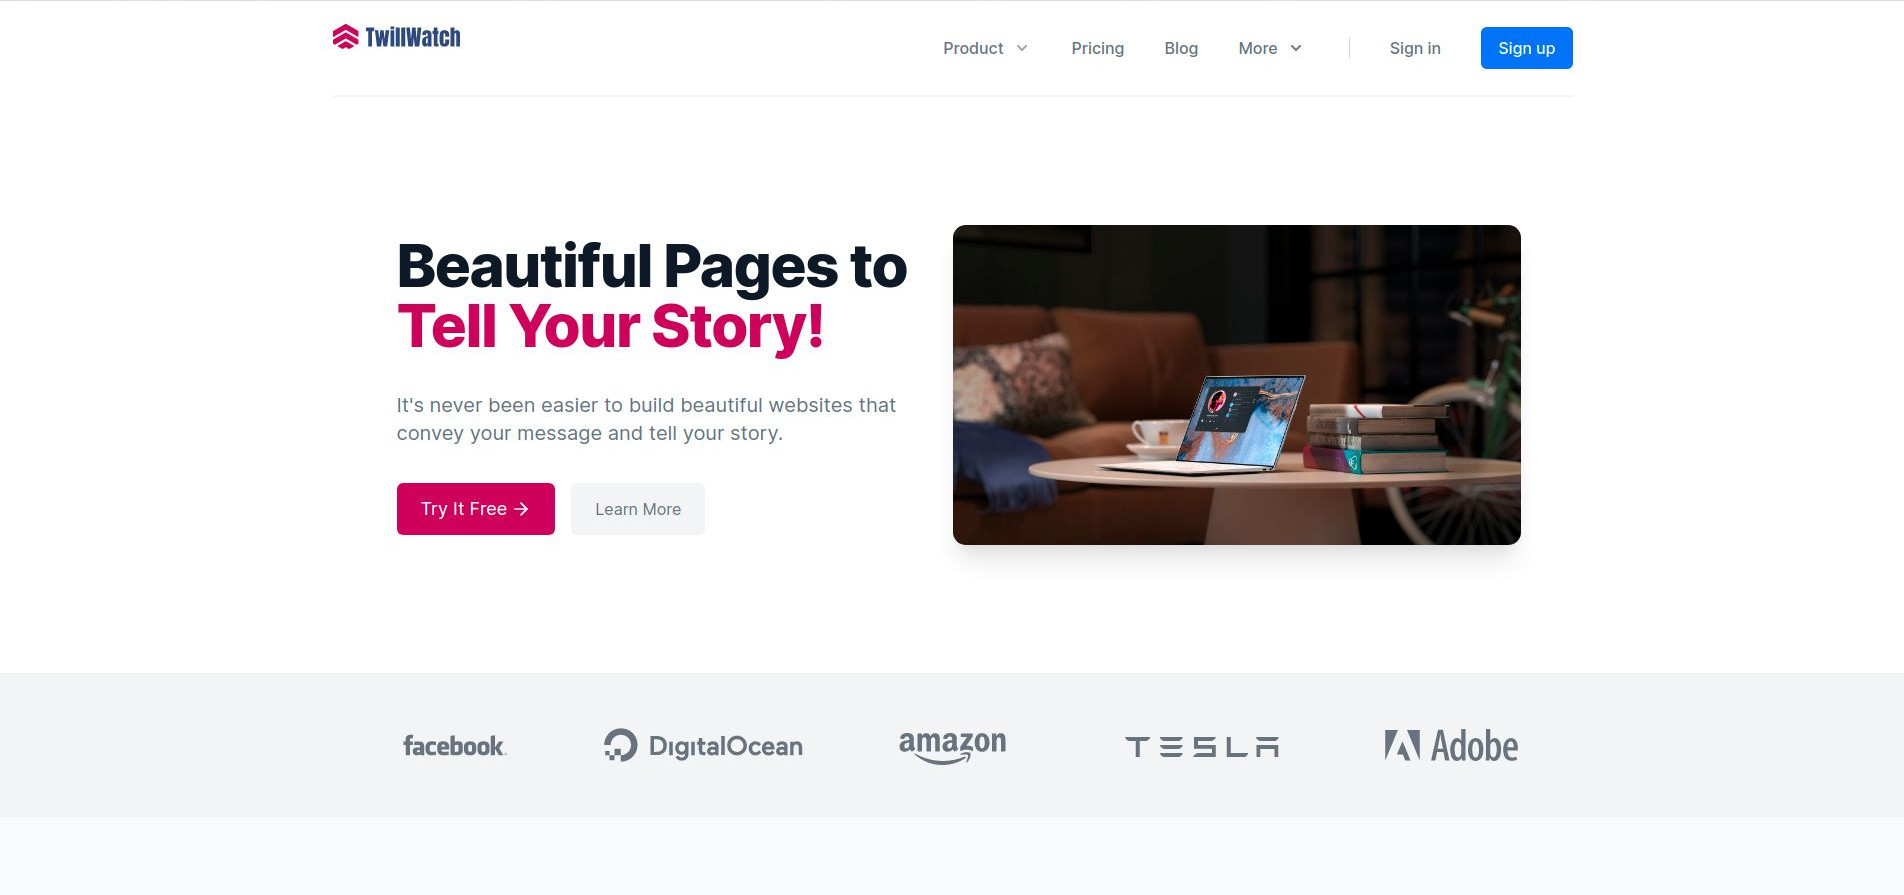
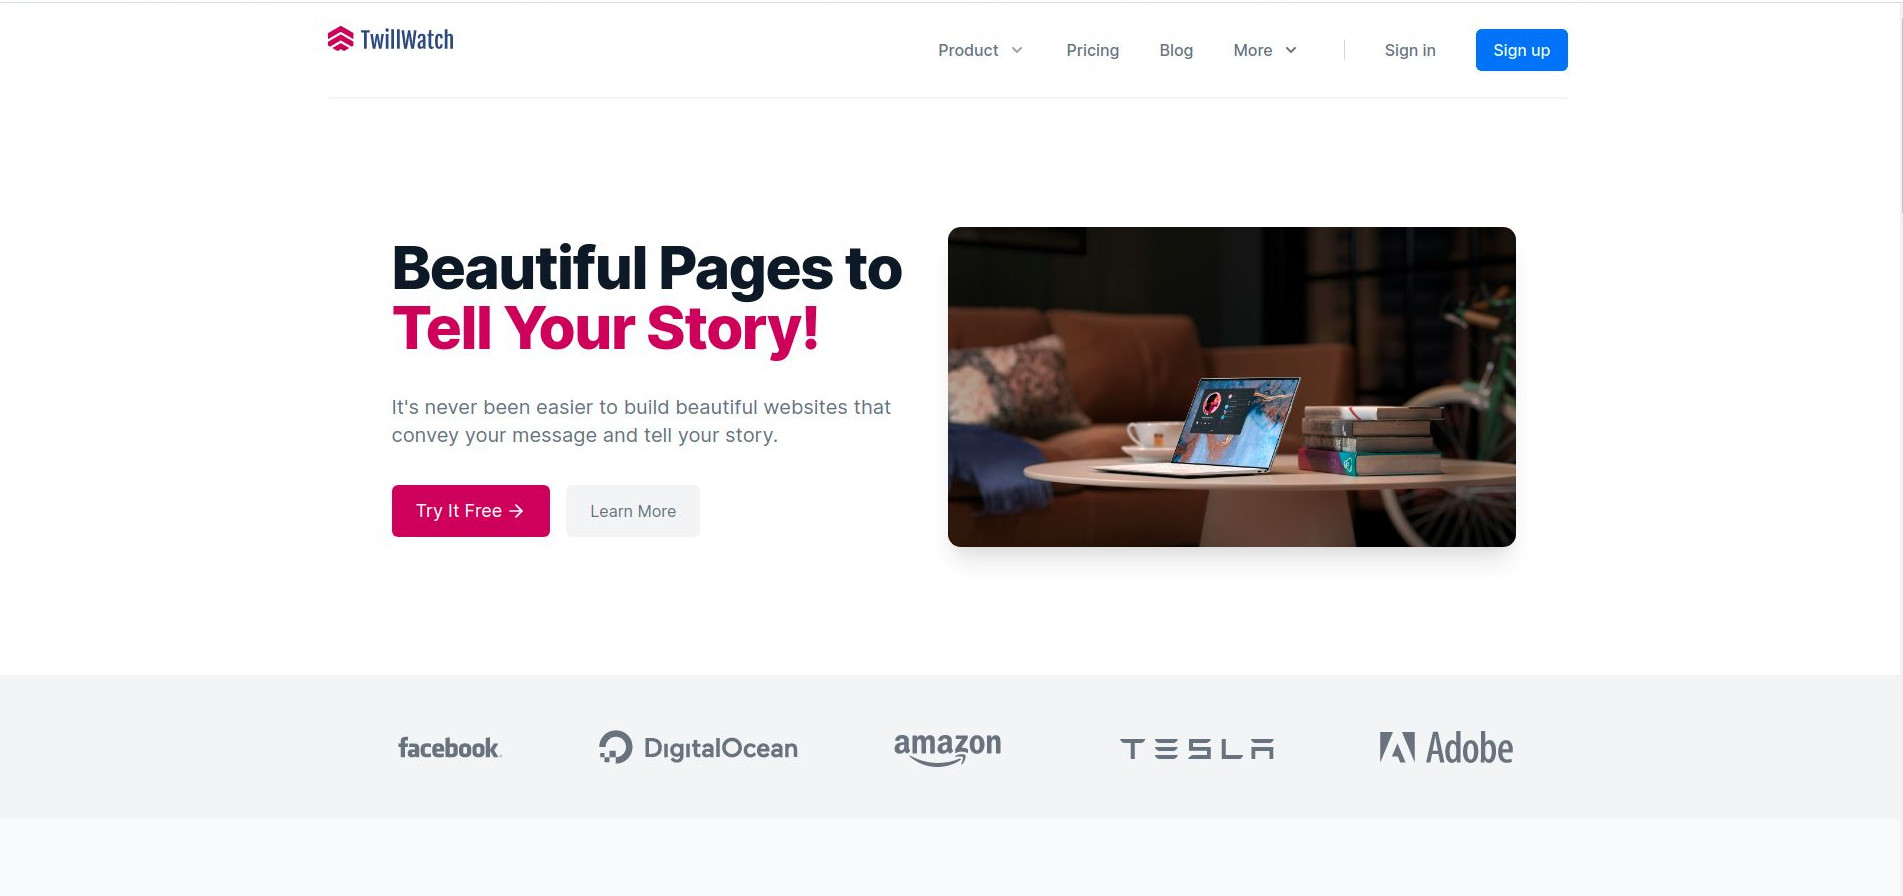
Update

diff --git a/public/themes/tailwind/js/app.js b/public/themes/tailwind/js/app.js
@@ -4276,8 +4276,8 @@ process.umask = function() { return 0; };
 /*! no static exports found */
 /***/ (function(module, exports, __webpack_require__) {
 
-__webpack_require__(/*! /home/anton/Projects/watchdog/resources/views/themes/tailwind/assets/js/app.js */"./assets/js/app.js");
-module.exports = __webpack_require__(/*! /home/anton/Projects/watchdog/resources/views/themes/tailwind/assets/sass/app.scss */"./assets/sass/app.scss");
+__webpack_require__(/*! /home/anton/Projects/Archived/watchdog/resources/views/themes/tailwind/assets/js/app.js */"./assets/js/app.js");
+module.exports = __webpack_require__(/*! /home/anton/Projects/Archived/watchdog/resources/views/themes/tailwind/assets/sass/app.scss */"./assets/sass/app.scss");
 
 
 /***/ })

diff --git a/resources/views/themes/tailwind/partials/footer.blade.php b/resources/views/themes/tailwind/partials/footer.blade.php
@@ -7,7 +7,7 @@
         
             
                     <div class="relative flex items-center text-gray-500 leading-tighter">
-                       <svg class="w-auto h-14" xmlns="http://www.w3.org/2000/svg" viewBox="0 0 415 61" ><g fill="#bf1e5c" color="#bf1e5c" transform="translate(0 4) scale(0.6363637)"><svg width="44.0" height="44.0" x="0.0" y="0.0" viewBox="0 0 44 44"><path fill="currentColor" fill-rule="evenodd" d="M21.973 29.756l14.787 8.535-9.168 5.28-5.605-3.224-5.563 3.225-9.182-5.281 14.73-8.535zm0-15.005L44 27.454v6.492l-3.52 2.07-18.506-10.675L3.525 36.016l-3.52-2.042v-6.52L21.973 14.75zM21.97 0l22.026 12.689v10.576L21.984 10.591 0 23.294V12.703L21.97 0z"></path></svg></g><path fill="#384684" fill-rule="nonzero" d="M6.58 21.67L2.45 21.67L2.45 5.02L0 5.02L0 1.06L9.02 1.06L9.02 5.02L6.58 5.02L6.58 21.67ZM16.61 21.67L11.95 21.67L9.82 4.10L13.42 4.10L14.59 13.54L15.60 4.10L19.27 4.10L20.47 13.54L21.46 4.10L25.42 4.10L23.16 21.67L18.96 21.67L17.71 11.69L16.61 21.67ZM30.98 2.93L26.78 2.93L26.78 0L30.98 0L30.98 2.93ZM30.98 21.67L26.78 21.67L26.78 4.10L30.98 4.10L30.98 21.67ZM36.91 21.67L32.64 21.67L32.64 0.94L36.91 0.94L36.91 21.67ZM42.86 21.67L38.59 21.67L38.59 0.94L42.86 0.94L42.86 21.67ZM51.26 21.67L46.22 21.67L44.02 1.06L48.05 1.06L49.20 14.06L50.35 1.06L54.19 1.06L55.30 14.06L56.40 1.06L60.48 1.06L58.22 21.67L53.28 21.67L52.25 11.74L51.26 21.67ZM64.82 21.86Q62.78 21.86 62.03 20.51Q61.27 19.15 61.27 16.63L61.27 16.63Q61.27 14.57 61.81 13.46Q62.35 12.36 63.31 11.84Q64.27 11.33 66.24 10.70L66.24 10.70L67.39 10.32L67.39 10.27L67.39 8.52Q67.39 7.82 67.12 7.45Q66.84 7.08 66.46 7.08L66.46 7.08Q66.12 7.08 65.87 7.39Q65.62 7.70 65.62 8.23L65.62 8.23L65.62 9.29L61.54 9.29L61.54 8.71Q61.54 6.12 62.75 5.02Q63.96 3.91 66.70 3.91L66.70 3.91Q68.88 3.91 70.25 5.05Q71.62 6.19 71.62 8.28L71.62 8.28L71.62 21.67L67.44 21.67L67.44 19.58Q67.13 20.66 66.44 21.26Q65.76 21.86 64.82 21.86L64.82 21.86ZM66.48 18.60Q66.96 18.60 67.16 18.20Q67.37 17.81 67.37 17.23L67.37 17.23L67.37 12.34Q66.43 12.70 65.99 13.25Q65.54 13.80 65.54 14.78L65.54 14.78L65.54 17.04Q65.54 18.60 66.48 18.60L66.48 18.60ZM76.85 21.86Q75.19 21.86 74.57 21.17Q73.94 20.47 73.94 18.94L73.94 18.94L73.94 7.97L72.77 7.97L72.77 4.78L73.94 4.78L73.94 1.06L78.02 1.06L78.02 4.78L79.22 4.78L79.22 7.97L78.02 7.97L78.02 17.83Q78.02 18.29 78.10 18.50Q78.17 18.72 78.48 18.72L78.48 18.72Q78.72 18.72 78.94 18.70Q79.15 18.67 79.22 18.67L79.22 18.67L79.22 21.55Q78.86 21.65 78.18 21.76Q77.50 21.86 76.85 21.86L76.85 21.86ZM85.82 21.86Q82.94 21.86 81.67 20.40Q80.40 18.94 80.40 15.91L80.40 15.91L80.40 10.49Q80.40 8.21 80.89 6.78Q81.38 5.35 82.55 4.63Q83.71 3.91 85.78 3.91L85.78 3.91Q88.03 3.91 89.45 5.09Q90.86 6.26 90.86 8.38L90.86 8.38L90.86 11.06L86.59 11.06L86.59 8.59Q86.59 7.90 86.40 7.52Q86.21 7.15 85.66 7.15L85.66 7.15Q84.62 7.15 84.62 8.62L84.62 8.62L84.62 17.14Q84.62 17.74 84.88 18.16Q85.13 18.58 85.63 18.58L85.63 18.58Q86.14 18.58 86.39 18.17Q86.64 17.76 86.62 17.11L86.62 17.11L86.59 14.16L90.86 14.16L90.86 17.23Q90.86 19.39 89.46 20.63Q88.06 21.86 85.82 21.86L85.82 21.86ZM92.33 21.67L92.33 0.94L96.65 0.94L96.65 5.83Q97.32 3.91 99.22 3.91L99.22 3.91Q100.99 3.91 101.90 5.04Q102.82 6.17 102.82 8.14L102.82 8.14L102.82 21.67L98.62 21.67L98.62 8.40Q98.62 7.82 98.35 7.46Q98.09 7.10 97.58 7.10L97.58 7.10Q97.15 7.10 96.90 7.48Q96.65 7.85 96.65 8.38L96.65 8.38L96.65 21.67L92.33 21.67Z" transform="translate(36, 7.164)"></path></svg>
+                       <svg class="w-auto h-14" xmlns="http://www.w3.org/2000/svg" viewBox="0 0 415 61" ><g fill="#bf1e5c" color="#bf1e5c" transform="translate(0 4) scale(0.6363637)"><svg width="44.0" height="44.0" x="0.0" y="0.0" viewBox="0 0 44 44"><path fill="currentColor" fill-rule="evenodd" d="M21.973 29.756l14.787 8.535-9.168 5.28-5.605-3.224-5.563 3.225-9.182-5.281 14.73-8.535zm0-15.005L44 27.454v6.492l-3.52 2.07-18.506-10.675L3.525 36.016l-3.52-2.042v-6.52L21.973 14.75zM21.97 0l22.026 12.689v10.576L21.984 10.591 0 23.294V12.703L21.97 0z"></path></svg></g><path fill="#384684" fill-rule="nonzero" d="M3.22 22.25L3.22 4.63L0 4.63L0 2.24L9.47 2.24L9.47 4.63L6.26 4.63L6.26 22.25L3.22 22.25ZM12.88 22.25L10.22 6.12L13.04 6.12L14.20 14.86L14.48 18.13L14.58 18.13L14.93 14.86L16.48 6.12L18.97 6.12L20.57 14.86L21 18.13L21.09 18.13L21.29 14.86L22.31 6.12L25.08 6.12L22.46 22.25L19.73 22.25L18.06 13.28L17.68 10.80L17.59 10.80L17.25 13.28L15.73 22.25L12.88 22.25ZM28.59 3.81L28.59 3.81Q27.77 3.81 27.30 3.32Q26.82 2.82 26.82 1.88L26.82 1.88Q26.82 1.35 26.95 0.99Q27.07 0.63 27.30 0.42Q27.53 0.20 27.86 0.10Q28.18 0 28.61 0L28.61 0Q29.48 0 29.94 0.45Q30.40 0.89 30.40 1.88L30.40 1.88Q30.40 2.79 29.94 3.30Q29.47 3.81 28.59 3.81ZM27.06 22.25L27.06 6.12L30.02 6.12L30.02 22.25L27.06 22.25ZM33.16 22.25L33.16 0.94L36.13 0.94L36.13 22.25L33.16 22.25ZM39.27 22.25L39.27 0.94L42.23 0.94L42.23 22.25L39.27 22.25ZM47.12 22.25L44.24 2.24L47.14 2.24L48.49 14.33L48.64 17.16L48.94 17.16L49.22 13.98L51.38 2.24L53.80 2.24L55.86 13.98L56.10 17.16L56.40 17.16L56.54 14.33L57.77 2.24L60.69 2.24L57.89 22.25L54.81 22.25L53.16 12.63L52.64 8.45L52.41 8.45L51.90 12.63L50.17 22.25L47.12 22.25ZM64.89 22.43L64.89 22.43Q64.14 22.43 63.56 22.13Q62.98 21.83 62.58 21.32Q62.18 20.80 61.97 20.09Q61.77 19.38 61.77 18.55L61.77 18.55Q61.77 17.55 62.02 16.78Q62.26 16.01 62.74 15.39Q63.21 14.77 63.91 14.26Q64.62 13.75 65.54 13.29L65.54 13.29Q65.99 13.07 66.54 12.84Q67.10 12.61 67.54 12.45L67.54 12.45L67.54 10.31Q67.54 9.84 67.50 9.44Q67.46 9.04 67.33 8.74Q67.20 8.44 66.93 8.27Q66.66 8.10 66.19 8.10L66.19 8.10Q65.87 8.10 65.57 8.21Q65.27 8.33 65.04 8.61Q64.82 8.89 64.68 9.36Q64.55 9.83 64.55 10.52L64.55 10.52L64.55 11.23L62.29 11.23Q62.18 10.77 62.13 10.39Q62.07 10.01 62.07 9.63L62.07 9.63Q62.07 8.73 62.38 8.04Q62.70 7.35 63.25 6.88Q63.81 6.41 64.58 6.17Q65.36 5.93 66.28 5.93L66.28 5.93Q67.49 5.93 68.29 6.19Q69.08 6.46 69.56 6.98Q70.03 7.51 70.22 8.31Q70.42 9.11 70.42 10.17L70.42 10.17L70.42 22.25L68.21 22.25L68.00 20.87Q67.52 21.56 66.72 22.00Q65.92 22.43 64.89 22.43ZM66.20 20.14L66.20 20.14Q66.57 20.14 66.93 19.95Q67.29 19.76 67.54 19.48L67.54 19.48L67.54 14.43Q67.30 14.52 67.01 14.65Q66.71 14.78 66.38 14.99L66.38 14.99Q66.06 15.19 65.75 15.47Q65.45 15.75 65.21 16.14Q64.97 16.52 64.82 17.01Q64.68 17.50 64.68 18.09L64.68 18.09Q64.68 19.02 65.04 19.58Q65.40 20.14 66.20 20.14ZM73.83 18.23L73.83 8.23L72.57 8.23L72.57 6.12L74.09 6.12L74.68 1.93L76.79 1.93L76.79 6.12L79.37 6.12L79.37 8.23L76.79 8.23L76.79 18.49Q76.79 19.02 76.89 19.34Q76.99 19.66 77.17 19.85Q77.34 20.03 77.58 20.09Q77.81 20.14 78.07 20.14L78.07 20.14Q78.50 20.14 78.84 20.04Q79.17 19.93 79.48 19.75L79.48 19.75L79.48 21.39Q79.22 21.70 78.92 21.90Q78.62 22.10 78.30 22.22Q77.99 22.35 77.66 22.39Q77.33 22.44 77.02 22.44L77.02 22.44Q76.39 22.44 75.82 22.28Q75.25 22.11 74.80 21.65Q74.36 21.19 74.09 20.37Q73.83 19.55 73.83 18.23L73.83 18.23ZM85.16 22.43L85.16 22.43Q83.12 22.43 82.05 20.75Q80.98 19.08 80.98 15.64L80.98 15.64L80.98 12.60Q80.98 11.06 81.20 9.97Q81.42 8.87 81.79 8.13Q82.16 7.38 82.63 6.95Q83.11 6.52 83.61 6.29Q84.12 6.06 84.61 5.99Q85.10 5.93 85.51 5.93L85.51 5.93Q86.33 5.93 87.01 6.15Q87.69 6.36 88.18 6.80Q88.68 7.24 88.95 7.91Q89.21 8.58 89.21 9.48L89.21 9.48Q89.21 10.04 89.16 10.45Q89.11 10.85 89.02 11.23L89.02 11.23L86.65 11.23L86.65 10.69Q86.65 9.47 86.36 8.78Q86.07 8.10 85.42 8.10L85.42 8.10Q85.05 8.10 84.79 8.27Q84.52 8.44 84.33 8.85Q84.15 9.26 84.06 9.95Q83.98 10.64 83.98 11.68L83.98 11.68L83.98 16.27Q83.98 17.32 84.05 18.06Q84.12 18.80 84.29 19.26Q84.47 19.72 84.76 19.93Q85.05 20.14 85.49 20.14L85.49 20.14Q85.71 20.14 85.92 20.03Q86.13 19.92 86.29 19.66Q86.45 19.41 86.55 18.98Q86.65 18.55 86.65 17.92L86.65 17.92L86.65 17.41L89.20 17.41L89.20 18.04Q89.20 20.33 88.19 21.38Q87.18 22.43 85.16 22.43ZM91.61 22.25L91.61 0.94L94.57 0.94L94.57 4.73L94.42 7.50Q94.75 7.04 95.13 6.74Q95.51 6.45 95.91 6.26Q96.32 6.08 96.73 6.01Q97.15 5.93 97.56 5.93L97.56 5.93Q98.98 5.93 99.74 6.92Q100.51 7.91 100.51 9.89L100.51 9.89L100.51 22.25L97.55 22.25L97.55 10.00Q97.55 8.93 97.22 8.51Q96.89 8.10 96.26 8.10L96.26 8.10Q95.81 8.10 95.36 8.40Q94.91 8.70 94.57 9.22L94.57 9.22L94.57 22.25L91.61 22.25Z" transform="translate(36, 6.874)"></path></svg>
                         <span class="ml-4 text-3xl font-thin tracking-wide">wave</span>
                     </div>
             

diff --git a/resources/views/themes/tailwind/partials/header.blade.php b/resources/views/themes/tailwind/partials/header.blade.php
@@ -7,7 +7,7 @@
                     @if(Voyager::image(theme('logo')))
                         <img class="h-9" src="{{ Voyager::image(theme('logo')) }}" alt="Company name">
                     @else
-                        <svg class="w-auto h-14" xmlns="http://www.w3.org/2000/svg" viewBox="0 0 415 61" ><g fill="#bf1e5c" color="#bf1e5c" transform="translate(0 4) scale(0.6363637)"><svg width="44.0" height="44.0" x="0.0" y="0.0" viewBox="0 0 44 44"><path fill="currentColor" fill-rule="evenodd" d="M21.973 29.756l14.787 8.535-9.168 5.28-5.605-3.224-5.563 3.225-9.182-5.281 14.73-8.535zm0-15.005L44 27.454v6.492l-3.52 2.07-18.506-10.675L3.525 36.016l-3.52-2.042v-6.52L21.973 14.75zM21.97 0l22.026 12.689v10.576L21.984 10.591 0 23.294V12.703L21.97 0z"></path></svg></g><path fill="#384684" fill-rule="nonzero" d="M6.58 21.67L2.45 21.67L2.45 5.02L0 5.02L0 1.06L9.02 1.06L9.02 5.02L6.58 5.02L6.58 21.67ZM16.61 21.67L11.95 21.67L9.82 4.10L13.42 4.10L14.59 13.54L15.60 4.10L19.27 4.10L20.47 13.54L21.46 4.10L25.42 4.10L23.16 21.67L18.96 21.67L17.71 11.69L16.61 21.67ZM30.98 2.93L26.78 2.93L26.78 0L30.98 0L30.98 2.93ZM30.98 21.67L26.78 21.67L26.78 4.10L30.98 4.10L30.98 21.67ZM36.91 21.67L32.64 21.67L32.64 0.94L36.91 0.94L36.91 21.67ZM42.86 21.67L38.59 21.67L38.59 0.94L42.86 0.94L42.86 21.67ZM51.26 21.67L46.22 21.67L44.02 1.06L48.05 1.06L49.20 14.06L50.35 1.06L54.19 1.06L55.30 14.06L56.40 1.06L60.48 1.06L58.22 21.67L53.28 21.67L52.25 11.74L51.26 21.67ZM64.82 21.86Q62.78 21.86 62.03 20.51Q61.27 19.15 61.27 16.63L61.27 16.63Q61.27 14.57 61.81 13.46Q62.35 12.36 63.31 11.84Q64.27 11.33 66.24 10.70L66.24 10.70L67.39 10.32L67.39 10.27L67.39 8.52Q67.39 7.82 67.12 7.45Q66.84 7.08 66.46 7.08L66.46 7.08Q66.12 7.08 65.87 7.39Q65.62 7.70 65.62 8.23L65.62 8.23L65.62 9.29L61.54 9.29L61.54 8.71Q61.54 6.12 62.75 5.02Q63.96 3.91 66.70 3.91L66.70 3.91Q68.88 3.91 70.25 5.05Q71.62 6.19 71.62 8.28L71.62 8.28L71.62 21.67L67.44 21.67L67.44 19.58Q67.13 20.66 66.44 21.26Q65.76 21.86 64.82 21.86L64.82 21.86ZM66.48 18.60Q66.96 18.60 67.16 18.20Q67.37 17.81 67.37 17.23L67.37 17.23L67.37 12.34Q66.43 12.70 65.99 13.25Q65.54 13.80 65.54 14.78L65.54 14.78L65.54 17.04Q65.54 18.60 66.48 18.60L66.48 18.60ZM76.85 21.86Q75.19 21.86 74.57 21.17Q73.94 20.47 73.94 18.94L73.94 18.94L73.94 7.97L72.77 7.97L72.77 4.78L73.94 4.78L73.94 1.06L78.02 1.06L78.02 4.78L79.22 4.78L79.22 7.97L78.02 7.97L78.02 17.83Q78.02 18.29 78.10 18.50Q78.17 18.72 78.48 18.72L78.48 18.72Q78.72 18.72 78.94 18.70Q79.15 18.67 79.22 18.67L79.22 18.67L79.22 21.55Q78.86 21.65 78.18 21.76Q77.50 21.86 76.85 21.86L76.85 21.86ZM85.82 21.86Q82.94 21.86 81.67 20.40Q80.40 18.94 80.40 15.91L80.40 15.91L80.40 10.49Q80.40 8.21 80.89 6.78Q81.38 5.35 82.55 4.63Q83.71 3.91 85.78 3.91L85.78 3.91Q88.03 3.91 89.45 5.09Q90.86 6.26 90.86 8.38L90.86 8.38L90.86 11.06L86.59 11.06L86.59 8.59Q86.59 7.90 86.40 7.52Q86.21 7.15 85.66 7.15L85.66 7.15Q84.62 7.15 84.62 8.62L84.62 8.62L84.62 17.14Q84.62 17.74 84.88 18.16Q85.13 18.58 85.63 18.58L85.63 18.58Q86.14 18.58 86.39 18.17Q86.64 17.76 86.62 17.11L86.62 17.11L86.59 14.16L90.86 14.16L90.86 17.23Q90.86 19.39 89.46 20.63Q88.06 21.86 85.82 21.86L85.82 21.86ZM92.33 21.67L92.33 0.94L96.65 0.94L96.65 5.83Q97.32 3.91 99.22 3.91L99.22 3.91Q100.99 3.91 101.90 5.04Q102.82 6.17 102.82 8.14L102.82 8.14L102.82 21.67L98.62 21.67L98.62 8.40Q98.62 7.82 98.35 7.46Q98.09 7.10 97.58 7.10L97.58 7.10Q97.15 7.10 96.90 7.48Q96.65 7.85 96.65 8.38L96.65 8.38L96.65 21.67L92.33 21.67Z" transform="translate(36, 7.164)"></path></svg>
+                        <svg class="w-auto h-14" xmlns="http://www.w3.org/2000/svg" viewBox="0 0 415 61" ><g fill="#bf1e5c" color="#bf1e5c" transform="translate(0 4) scale(0.6363637)"><svg width="44.0" height="44.0" x="0.0" y="0.0" viewBox="0 0 44 44"><path fill="currentColor" fill-rule="evenodd" d="M21.973 29.756l14.787 8.535-9.168 5.28-5.605-3.224-5.563 3.225-9.182-5.281 14.73-8.535zm0-15.005L44 27.454v6.492l-3.52 2.07-18.506-10.675L3.525 36.016l-3.52-2.042v-6.52L21.973 14.75zM21.97 0l22.026 12.689v10.576L21.984 10.591 0 23.294V12.703L21.97 0z"></path></svg></g><path fill="#384684" fill-rule="nonzero" d="M3.22 22.25L3.22 4.63L0 4.63L0 2.24L9.47 2.24L9.47 4.63L6.26 4.63L6.26 22.25L3.22 22.25ZM12.88 22.25L10.22 6.12L13.04 6.12L14.20 14.86L14.48 18.13L14.58 18.13L14.93 14.86L16.48 6.12L18.97 6.12L20.57 14.86L21 18.13L21.09 18.13L21.29 14.86L22.31 6.12L25.08 6.12L22.46 22.25L19.73 22.25L18.06 13.28L17.68 10.80L17.59 10.80L17.25 13.28L15.73 22.25L12.88 22.25ZM28.59 3.81L28.59 3.81Q27.77 3.81 27.30 3.32Q26.82 2.82 26.82 1.88L26.82 1.88Q26.82 1.35 26.95 0.99Q27.07 0.63 27.30 0.42Q27.53 0.20 27.86 0.10Q28.18 0 28.61 0L28.61 0Q29.48 0 29.94 0.45Q30.40 0.89 30.40 1.88L30.40 1.88Q30.40 2.79 29.94 3.30Q29.47 3.81 28.59 3.81ZM27.06 22.25L27.06 6.12L30.02 6.12L30.02 22.25L27.06 22.25ZM33.16 22.25L33.16 0.94L36.13 0.94L36.13 22.25L33.16 22.25ZM39.27 22.25L39.27 0.94L42.23 0.94L42.23 22.25L39.27 22.25ZM47.12 22.25L44.24 2.24L47.14 2.24L48.49 14.33L48.64 17.16L48.94 17.16L49.22 13.98L51.38 2.24L53.80 2.24L55.86 13.98L56.10 17.16L56.40 17.16L56.54 14.33L57.77 2.24L60.69 2.24L57.89 22.25L54.81 22.25L53.16 12.63L52.64 8.45L52.41 8.45L51.90 12.63L50.17 22.25L47.12 22.25ZM64.89 22.43L64.89 22.43Q64.14 22.43 63.56 22.13Q62.98 21.83 62.58 21.32Q62.18 20.80 61.97 20.09Q61.77 19.38 61.77 18.55L61.77 18.55Q61.77 17.55 62.02 16.78Q62.26 16.01 62.74 15.39Q63.21 14.77 63.91 14.26Q64.62 13.75 65.54 13.29L65.54 13.29Q65.99 13.07 66.54 12.84Q67.10 12.61 67.54 12.45L67.54 12.45L67.54 10.31Q67.54 9.84 67.50 9.44Q67.46 9.04 67.33 8.74Q67.20 8.44 66.93 8.27Q66.66 8.10 66.19 8.10L66.19 8.10Q65.87 8.10 65.57 8.21Q65.27 8.33 65.04 8.61Q64.82 8.89 64.68 9.36Q64.55 9.83 64.55 10.52L64.55 10.52L64.55 11.23L62.29 11.23Q62.18 10.77 62.13 10.39Q62.07 10.01 62.07 9.63L62.07 9.63Q62.07 8.73 62.38 8.04Q62.70 7.35 63.25 6.88Q63.81 6.41 64.58 6.17Q65.36 5.93 66.28 5.93L66.28 5.93Q67.49 5.93 68.29 6.19Q69.08 6.46 69.56 6.98Q70.03 7.51 70.22 8.31Q70.42 9.11 70.42 10.17L70.42 10.17L70.42 22.25L68.21 22.25L68.00 20.87Q67.52 21.56 66.72 22.00Q65.92 22.43 64.89 22.43ZM66.20 20.14L66.20 20.14Q66.57 20.14 66.93 19.95Q67.29 19.76 67.54 19.48L67.54 19.48L67.54 14.43Q67.30 14.52 67.01 14.65Q66.71 14.78 66.38 14.99L66.38 14.99Q66.06 15.19 65.75 15.47Q65.45 15.75 65.21 16.14Q64.97 16.52 64.82 17.01Q64.68 17.50 64.68 18.09L64.68 18.09Q64.68 19.02 65.04 19.58Q65.40 20.14 66.20 20.14ZM73.83 18.23L73.83 8.23L72.57 8.23L72.57 6.12L74.09 6.12L74.68 1.93L76.79 1.93L76.79 6.12L79.37 6.12L79.37 8.23L76.79 8.23L76.79 18.49Q76.79 19.02 76.89 19.34Q76.99 19.66 77.17 19.85Q77.34 20.03 77.58 20.09Q77.81 20.14 78.07 20.14L78.07 20.14Q78.50 20.14 78.84 20.04Q79.17 19.93 79.48 19.75L79.48 19.75L79.48 21.39Q79.22 21.70 78.92 21.90Q78.62 22.10 78.30 22.22Q77.99 22.35 77.66 22.39Q77.33 22.44 77.02 22.44L77.02 22.44Q76.39 22.44 75.82 22.28Q75.25 22.11 74.80 21.65Q74.36 21.19 74.09 20.37Q73.83 19.55 73.83 18.23L73.83 18.23ZM85.16 22.43L85.16 22.43Q83.12 22.43 82.05 20.75Q80.98 19.08 80.98 15.64L80.98 15.64L80.98 12.60Q80.98 11.06 81.20 9.97Q81.42 8.87 81.79 8.13Q82.16 7.38 82.63 6.95Q83.11 6.52 83.61 6.29Q84.12 6.06 84.61 5.99Q85.10 5.93 85.51 5.93L85.51 5.93Q86.33 5.93 87.01 6.15Q87.69 6.36 88.18 6.80Q88.68 7.24 88.95 7.91Q89.21 8.58 89.21 9.48L89.21 9.48Q89.21 10.04 89.16 10.45Q89.11 10.85 89.02 11.23L89.02 11.23L86.65 11.23L86.65 10.69Q86.65 9.47 86.36 8.78Q86.07 8.10 85.42 8.10L85.42 8.10Q85.05 8.10 84.79 8.27Q84.52 8.44 84.33 8.85Q84.15 9.26 84.06 9.95Q83.98 10.64 83.98 11.68L83.98 11.68L83.98 16.27Q83.98 17.32 84.05 18.06Q84.12 18.80 84.29 19.26Q84.47 19.72 84.76 19.93Q85.05 20.14 85.49 20.14L85.49 20.14Q85.71 20.14 85.92 20.03Q86.13 19.92 86.29 19.66Q86.45 19.41 86.55 18.98Q86.65 18.55 86.65 17.92L86.65 17.92L86.65 17.41L89.20 17.41L89.20 18.04Q89.20 20.33 88.19 21.38Q87.18 22.43 85.16 22.43ZM91.61 22.25L91.61 0.94L94.57 0.94L94.57 4.73L94.42 7.50Q94.75 7.04 95.13 6.74Q95.51 6.45 95.91 6.26Q96.32 6.08 96.73 6.01Q97.15 5.93 97.56 5.93L97.56 5.93Q98.98 5.93 99.74 6.92Q100.51 7.91 100.51 9.89L100.51 9.89L100.51 22.25L97.55 22.25L97.55 10.00Q97.55 8.93 97.22 8.51Q96.89 8.10 96.26 8.10L96.26 8.10Q95.81 8.10 95.36 8.40Q94.91 8.70 94.57 9.22L94.57 9.22L94.57 22.25L91.61 22.25Z" transform="translate(36, 6.874)"></path></svg>
                     @endif
  
                 </a>
